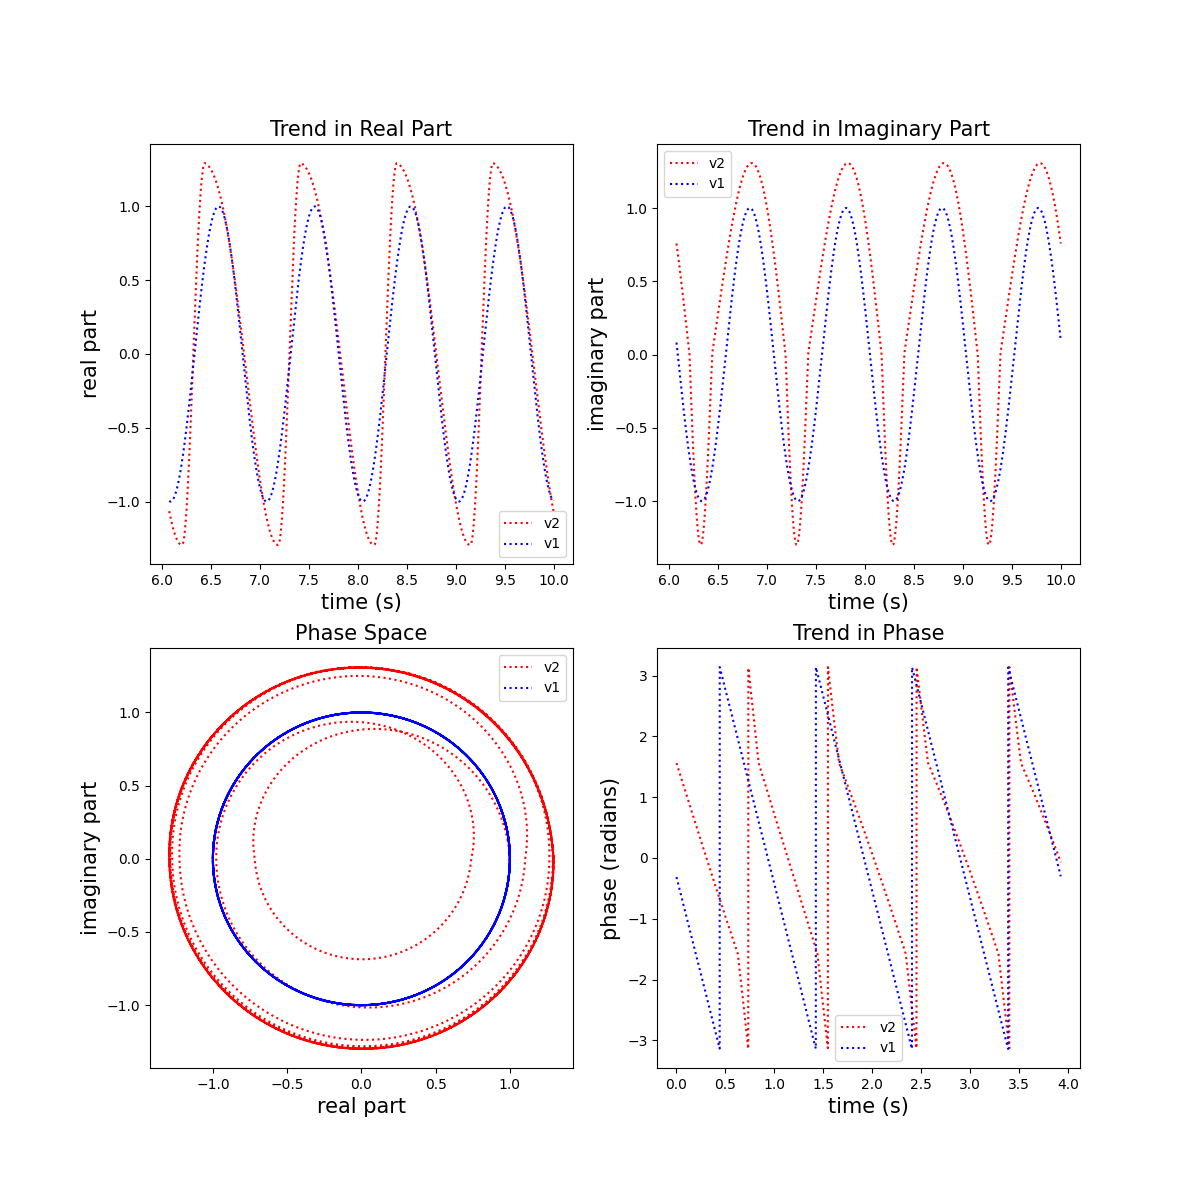
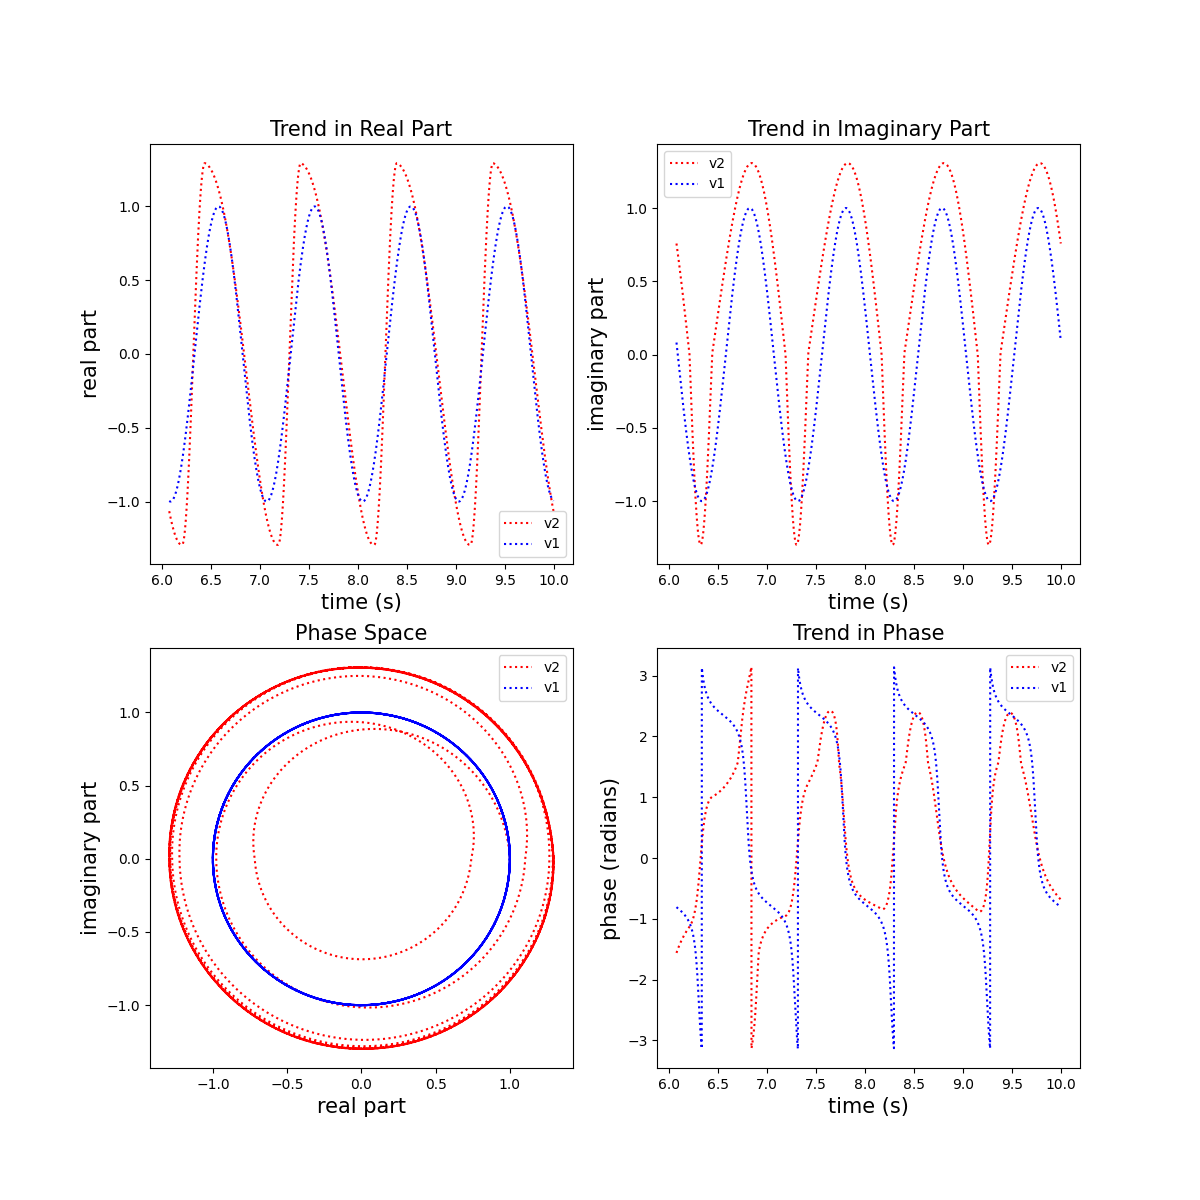
commit updated mod hopf synchronozation with input signals

diff --git a/oscillator.py b/oscillator.py
@@ -190,8 +190,8 @@ def test_driven_mod_hopf(plot_path, N, phase, omega, mu, z, dt = 0.001):
     W = []
     z_ = z.copy()
     F = np.concatenate([
-        np.expand_dims(np.cos(4 * omega * T + phase), -1),
-        np.expand_dims(np.sin(4 * omega * T + phase), -1)
+        np.expand_dims(np.sin(4 * omega * T + phase), -1),
+        np.zeros((N, 1))
     ], -1)
     for i in tqdm(range(N)):
         z_, w = hopf_step(omega, mu, z_, C, degree, dt)
@@ -257,15 +257,15 @@ def test_driven_mod_hopf(plot_path, N, phase, omega, mu, z, dt = 0.001):
     axes[1][0].set_title('Phase Space',fontsize=15)
     axes[1][0].legend()
     axes[1][1].plot(
-        T[:num_steps],
-        np.arctan2(Z[:num_steps, 0], Z[:num_steps, 1]),
+        T[-num_steps:],
+        np.arctan2(Z[-num_steps:, 0], Z[:num_steps, 1]),
         linestyle = ':',
         color = 'r',
         label = 'v2'
     )
     axes[1][1].plot(
-        T[:num_steps],
-        np.arctan2(F[:num_steps, 0], F[:num_steps, 1]),
+        T[-num_steps:],
+        np.arctan2(F[-num_steps:, 0], F[:num_steps, 1]),
         linestyle = ':',
         color = 'b',
         label = 'v1'
@@ -274,7 +274,7 @@ def test_driven_mod_hopf(plot_path, N, phase, omega, mu, z, dt = 0.001):
     axes[1][1].set_ylabel('phase (radians)',fontsize=15)
     axes[1][1].set_title('Trend in Phase',fontsize=15)
     axes[1][1].legend()
-    fig.savefig(os.path.join(plot_path, 'mod_oscillator_v1_forced_complex.png'))
+    fig.savefig(os.path.join(plot_path, 'mod_oscillator_v1_forced_real.png'))
     plt.show()
     plt.close('all')
 
